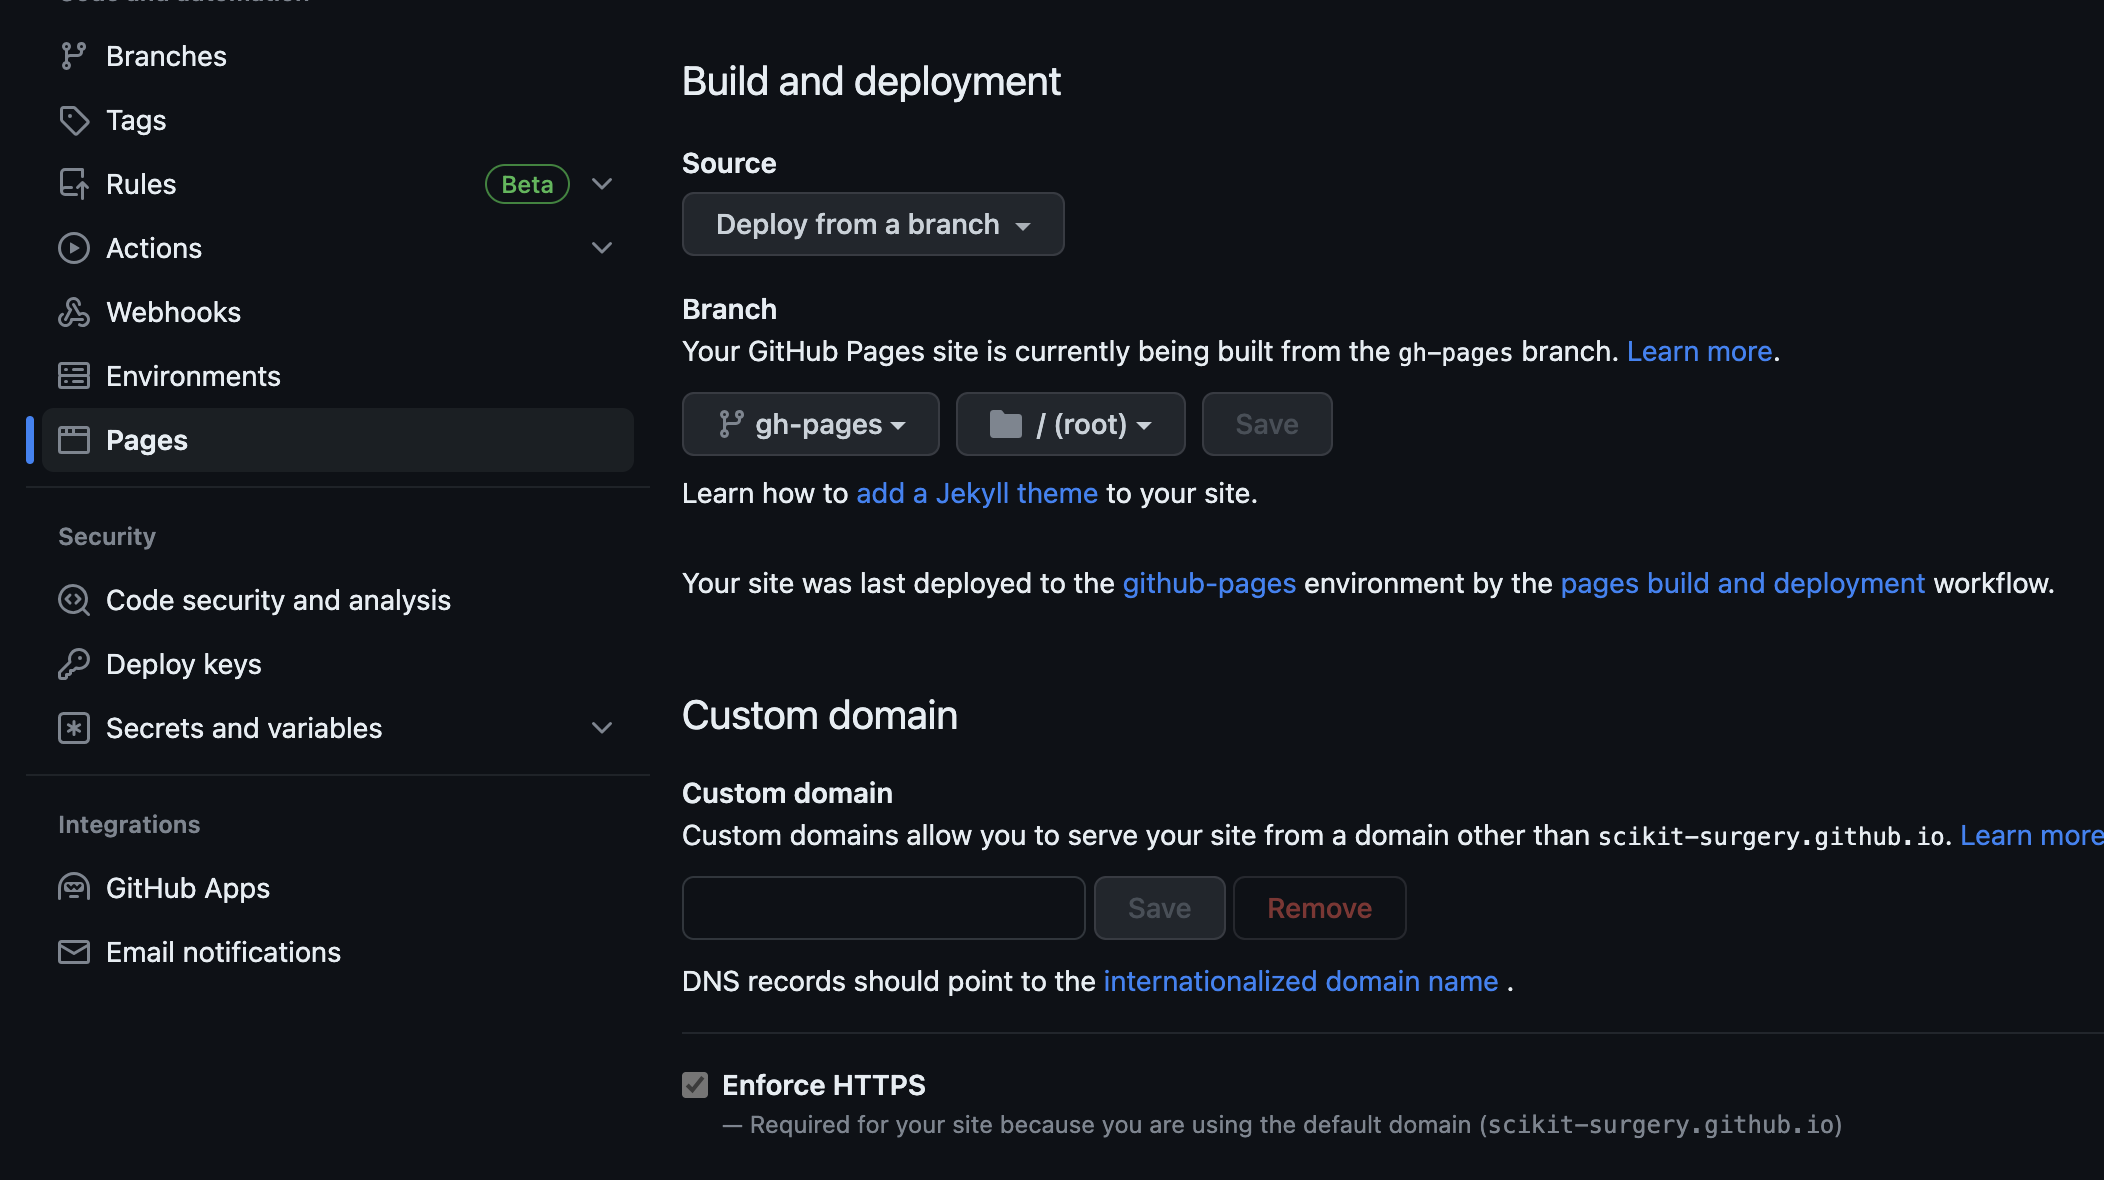
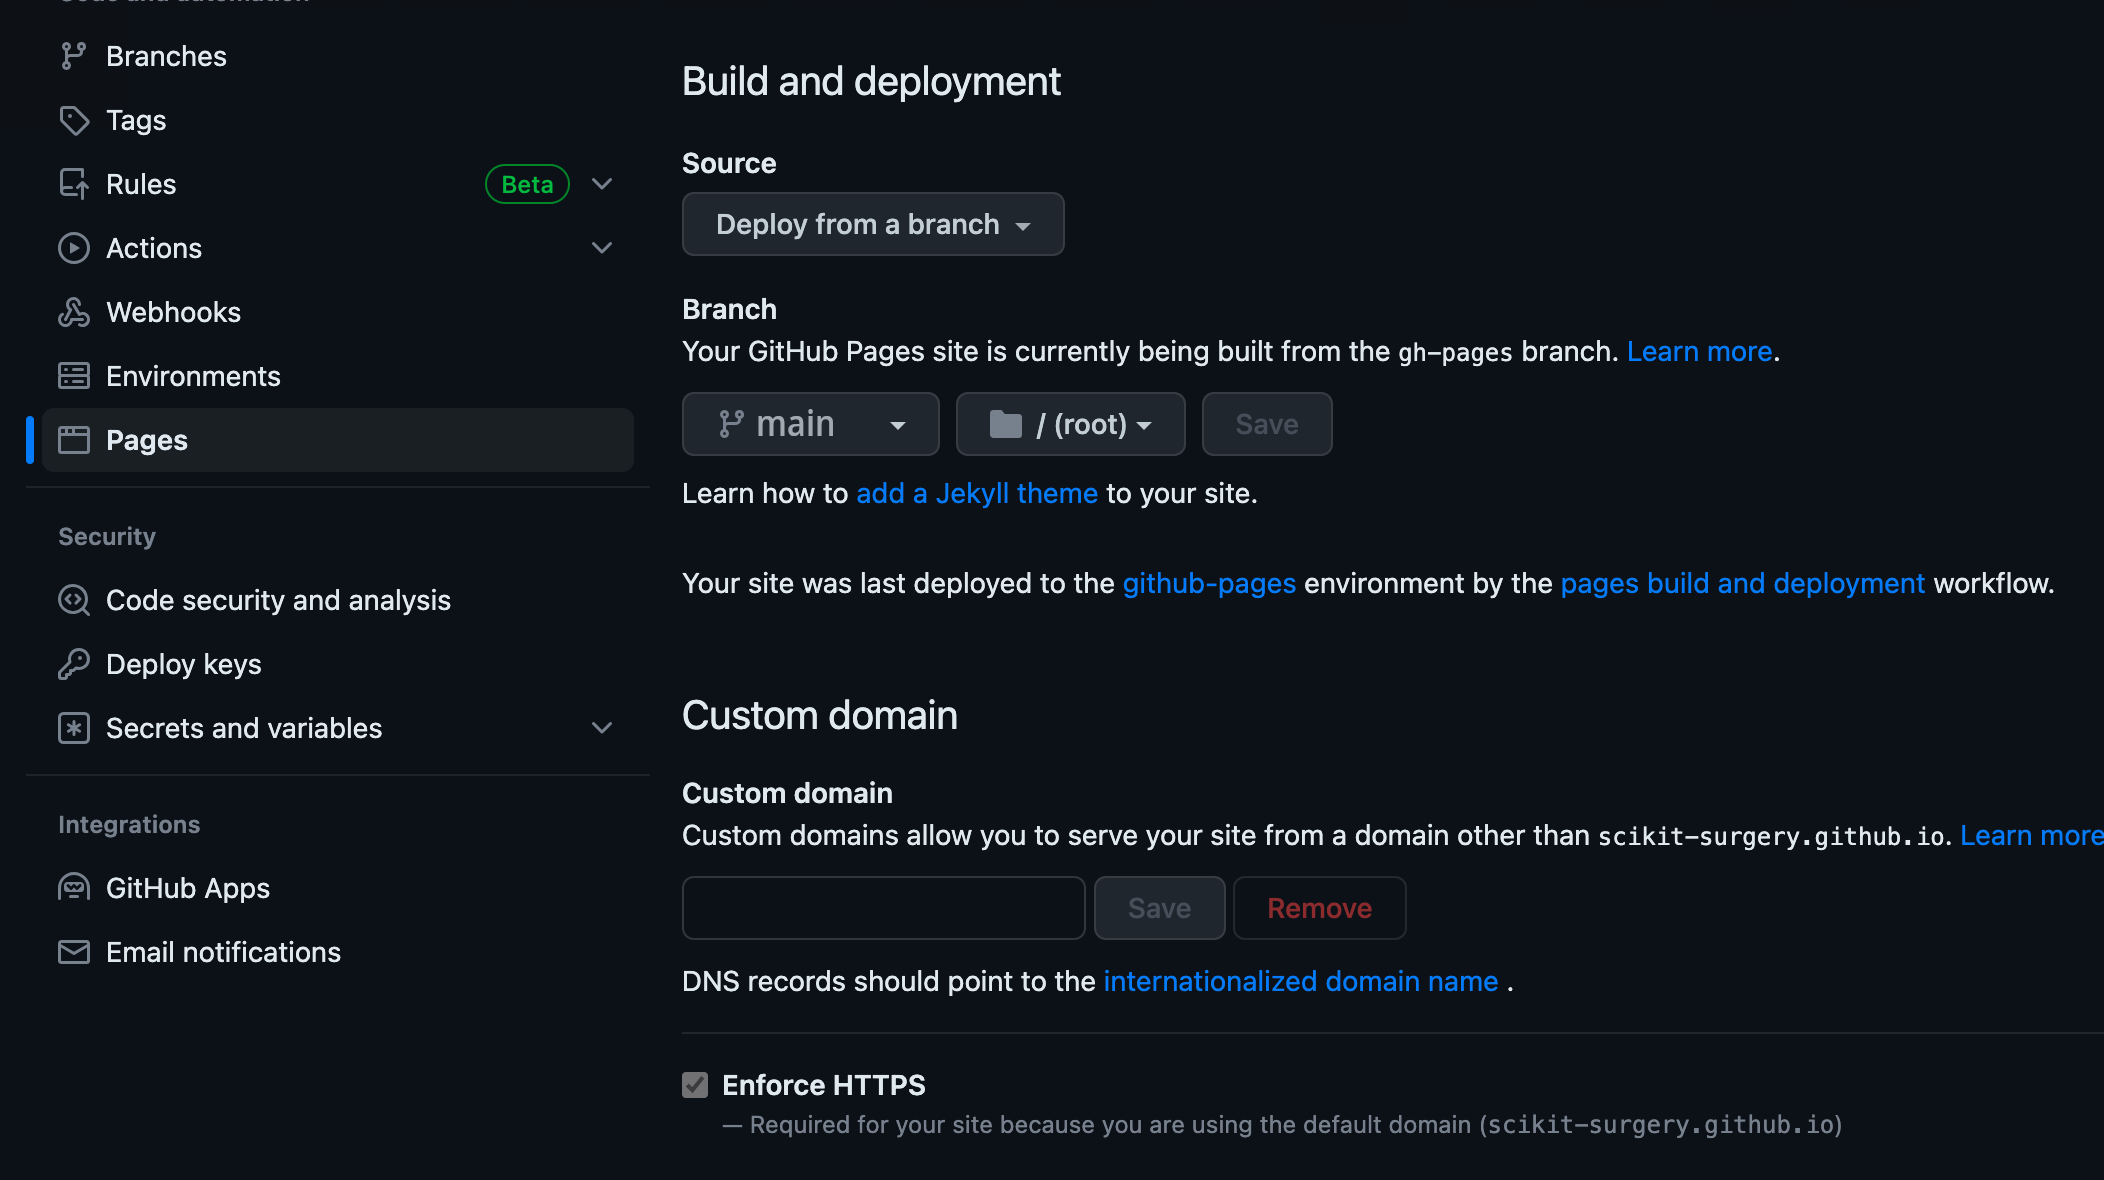
Issue #29 clarified instruction re tokens and updated to deploy off main

diff --git a/README.rst b/README.rst
@@ -155,10 +155,7 @@ Important configurations to note:
 
 5. Create a new repository with the same `project_slug` name (e.g. `https://github.com/$GITHUB_USER_ID/dashboard_for_scikit-surgery`).
 
-6. To run the analysis scripts, test locally, you need a personal access token for Github API generated from `here <https://github.com/settings/personal-access-tokens/new>`__
-Save it in the base directory under a text file named `github.token`
-
-7. Few [optional] things to set before you can run the pipeline!
+6. Few [optional] things to set before you can run the pipeline!
 
 a. You can specify a list for the libraries you want to exclude from your dashboard deployment, under `libraries/exclusions`
 
@@ -174,9 +171,8 @@ a. You can specify a list for the libraries you want to exclude from your dashbo
 
 b. You can save the logo of your base package (a .svg file) under `assets/logo-dashboard.svg` for it to show up in your deployment header
 
-8. Github Configurations
-a. You need to initialise github pages in your repository and set the deployment source from branch `gh-pages`:   
-Github Action will automatically initialise this branch and deploy from here. 
+7. Github Configurations
+a. You need to initialise github pages in your repository and set the deployment source from branch `main`:   
 You can find the instructions `here <https://docs.github.com/en/pages/getting-started-with-github-pages/configuring-a-publishing-source-for-your-github-pages-site>`__
 
 You might need admin rights from your organisation to use your organisation's base name. You can also use your username as the domain.
@@ -187,19 +183,7 @@ Your configuration will need to look like this (In the example below, our domain
    :width: 500
    :alt: Configuration
 
-b. You need a secret personal token to use the github API in the Github Action workflow, saved as `secrets.ADMIN_TOKEN`. For this you
-will need admin rights in your organisation and repository. You can read more on secret Github tokens
-`here <https://docs.github.com/en/actions/security-guides/encrypted-secrets>`__
-
-    1. Go to the `Settings`
-    2. Go to `Security and variables` -> Actions -> Repository secrets
-    3. Add a key named `ADMIN_TOKEN` and the token you created at step 6.
-
-    This is the same type of token you saved locally in Step 6. Yo should never
-    version control/track this token in your remote repository,  so here we are creating
-    a field for it which Github Action can reference in deployment.
-
-9. Setting github repository.
+8. Setting up git repository.
 Push your first commit to your package repository
 
 .. code-block::
@@ -213,14 +197,20 @@ Push your first commit to your package repository
     git push -u origin main
 
 
-10. Running the pipeline
+9. Running the pipeline on Github actions
 
 The Github Actions workflow will run this pipeline, so you do not need to do anything.
+
+10. Running the pipeline locally
 
 Locally, you can check if the pipeline works correctly, by running the python scripts ordered and referenced in the `Makefile` file of this repository.
 Note for checking if things work properly.
 While running `get_badges.py` you should notice that under `libraries` folder, there are .json files of dictionary entries for each package.
 
+To run the scripts locally, you need a personal access token for Github API generated from `here <https://github.com/settings/personal-access-tokens/new>`__
+Save it in the base directory in a text file named `github.token`
+Be careful not to commit the token file to your git repository. If you do it will be submitted to github in 
+your publicly visible repository.
 
 Instructions for developers
 ===========================
